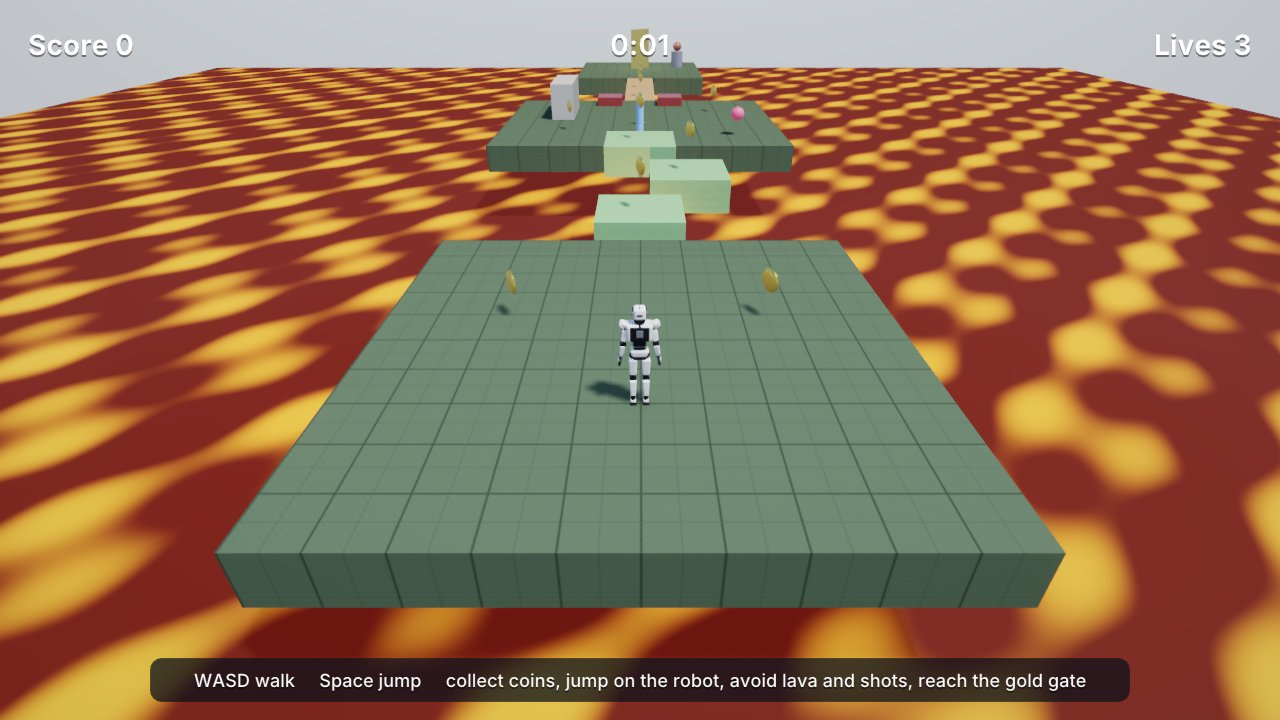
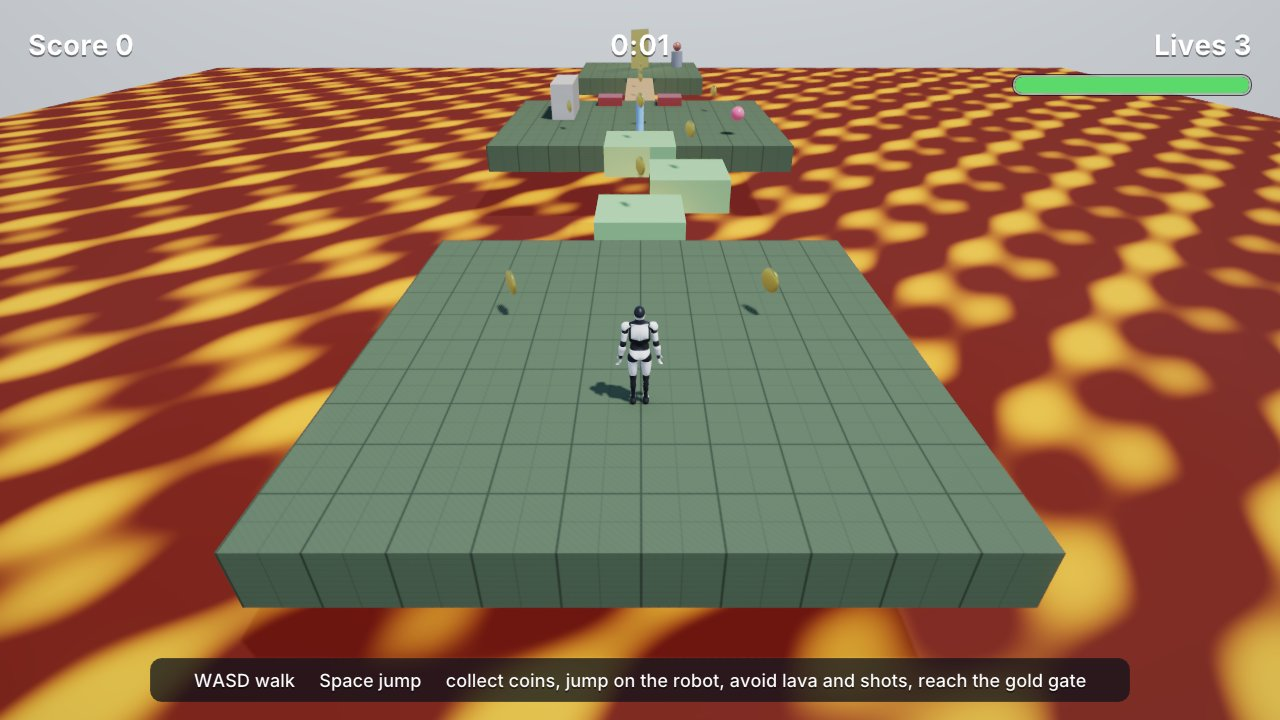
docs(images): refresh template screenshots with Orion and Nova

Changed region(s): [[0.7812, 0.0917, 1.0, 0.1528], [0.4688, 0.4278, 0.5312, 0.55]]

diff --git a/README.md b/README.md
@@ -32,10 +32,10 @@ In the Inspector, **Make it a...** turns any selected object into a Player, Enem
 <table>
 <tr>
 <td width="50%"><img src="docs/images/nocode_platformer.png" alt="The No-Code Platformer template running: player, slime, heart, coins, spikes and a HUD"><br><sub>No-Code Platformer: built only from Behaviours, with no scripts</sub></td>
-<td width="50%"><img src="docs/images/nocode_3d.jpg" alt="The No-Code 3D Adventure running: a robot on grassy islands over glowing lava, with coins, a guard robot and a HUD"><br><sub>No-Code 3D Adventure: islands, lava, a guard robot and a turret, still with no scripts</sub></td>
+<td width="50%"><img src="docs/images/nocode_3d.jpg" alt="The No-Code 3D Adventure running: Orion, the VICTUS android mannequin, on grassy islands over glowing lava, with coins, a guard and a HUD"><br><sub>No-Code 3D Adventure: islands, lava, a guard and a turret, still with no scripts</sub></td>
 </tr>
 <tr>
-<td width="50%"><img src="docs/images/template_3d.jpg" alt="The 3D template: a robot character, a fire, physics crates and a controls panel"><br><sub>3D template: character controller, physics, particles, prefabs and save games</sub></td>
+<td width="50%"><img src="docs/images/template_3d.jpg" alt="The 3D template: the Orion and Nova starter characters, a fire, physics crates and a controls panel"><br><sub>3D template: character controller, physics, particles, prefabs and save games</sub></td>
 <td width="50%"></td>
 </tr>
 </table>
